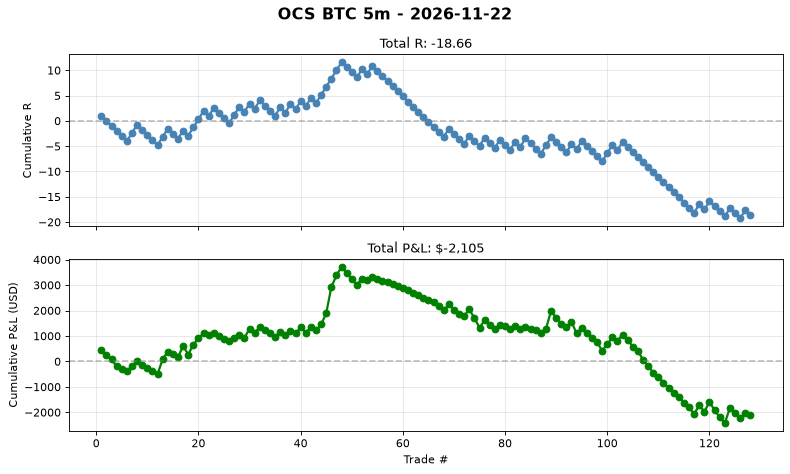
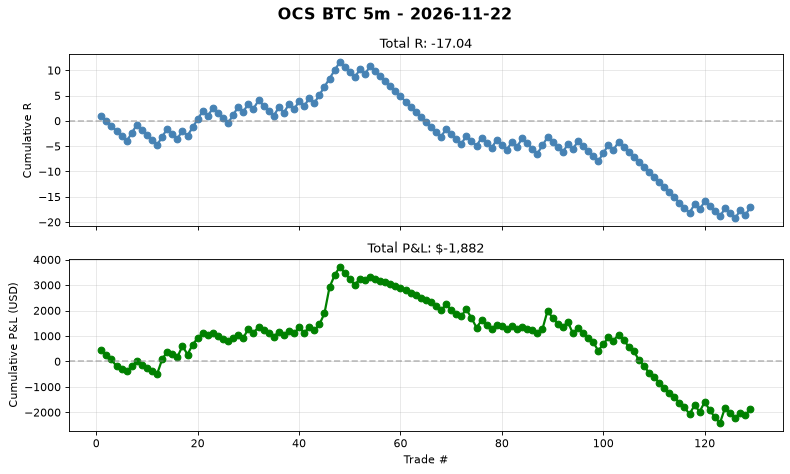
auto(ocs-btc): signal log 2026-11-22T10:05 trades=129

diff --git a/automation/reports/ocs_btc_5m/daily/2026-11-22.md b/automation/reports/ocs_btc_5m/daily/2026-11-22.md
@@ -1,25 +1,25 @@
 # OCS BTC 5m - 2026-11-22
 
 ## Summary
-- **Trades**: 1 (0W / 1L)
-- **Win Rate**: 0.0%
-- **Total R**: -1.00R
-- **Total P&L**: $-91
-- **Avg R**: -1.00R
-- **Profit Factor**: 0.78
+- **Trades**: 2 (1W / 1L)
+- **Win Rate**: 50.0%
+- **Total R**: +0.62R
+- **Total P&L**: $+132
+- **Avg R**: +0.31R
+- **Profit Factor**: 0.8
 
 ## Exit Breakdown
 - T1 (+1.0R): 1
-- T2 (+1.618R): 41
+- T2 (+1.618R): 42
 - T3 (+2.618R): 0
 - T4 (+3.618R): 0
 - T5 (+5.0R): 0
 - SL (-1.0R): 86
 
 ## Best Trade
-- **SHORT** at 59,952 -> SL 60,044
-- R = -1.00, P&L = $-91
-- Held for 4 bars
+- **SHORT** at 59,738 -> T2 59,515
+- R = +1.62, P&L = $+223
+- Held for 2 bars
 
 ## Worst Trade
 - **SHORT** at 59,952 -> SL 60,044
@@ -27,11 +27,11 @@
 - Held for 4 bars
 
 ## Cumulative Stats (Lifetime)
-- Total trades: 128
-- WR: 32.8%
-- Avg R: -0.146
-- Total R: -18.66R
-- Profit Factor: 0.78
+- Total trades: 129
+- WR: 33.3%
+- Avg R: -0.132
+- Total R: -17.04R
+- Profit Factor: 0.8
 
 ## Chart
 See `daily/2026-11-22.png` for cumulative P&L curve.
